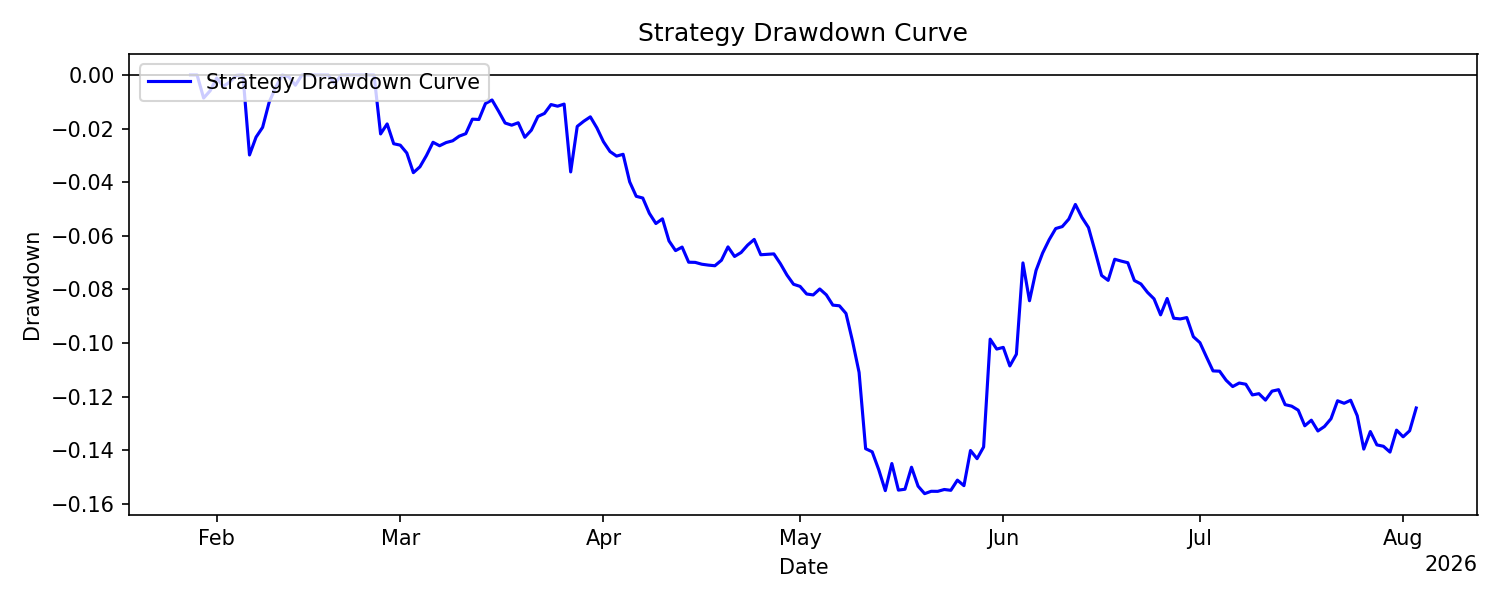
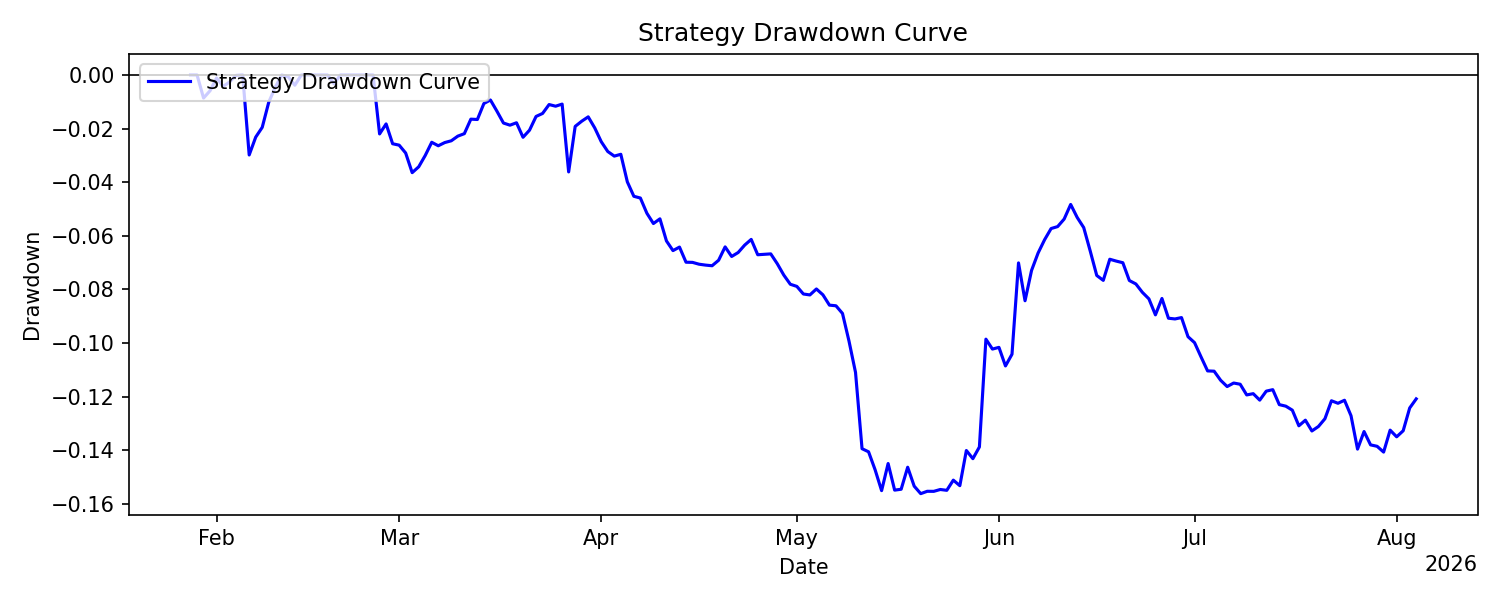
Update reports: 2026-08-04 00:05:12 UTC

diff --git a/README.md b/README.md
@@ -24,26 +24,26 @@ All results are live and reported net of transaction costs and slippage.
 <!-- METRICS_START -->
 | metric                       |        values |
 |:-----------------------------|--------------:|
-| Number of Observations       | 188           |
-| Mean Daily Return            |  -0.000364959 |
-| Daily Volatility             |   0.00843188  |
-| Mean Annualized Return       |  -0.13321     |
-| Annualized Volatility        |   0.161091    |
+| Number of Observations       | 189           |
+| Mean Daily Return            |  -0.000342496 |
+| Daily Volatility             |   0.00841509  |
+| Mean Annualized Return       |  -0.125011    |
+| Annualized Volatility        |   0.16077     |
 | Maximum Drawdown             |  -0.156146    |
-| Max Drawdown Duration (Days) | 159           |
-| Sharpe                       |  -0.826925    |
-| Sortino                      |  -1.14396     |
-| Calmar                       |  -0.853113    |
-| CAGR                         |  -0.135935    |
-| Skewness                     |   0.6694      |
-| Excess Kurtosis              |   8.59212     |
-| Win Rate                     |   0.468085    |
-| Profit Factor                |   0.872696    |
-| VaR 1%                       |  -0.0272595   |
+| Max Drawdown Duration (Days) | 160           |
+| Sharpe                       |  -0.777577    |
+| Sortino                      |  -1.07355     |
+| Calmar                       |  -0.800604    |
+| CAGR                         |  -0.128774    |
+| Skewness                     |   0.662391    |
+| Excess Kurtosis              |   8.61423     |
+| Win Rate                     |   0.470899    |
+| Profit Factor                |   0.879896    |
+| VaR 1%                       |  -0.0272297   |
 | CVaR 1%                      |  -0.030925    |
-| VaR 5%                       |  -0.0110711   |
+| VaR 5%                       |  -0.0110338   |
 | CVaR 5%                      |  -0.0201626   |
-| Correlation with BTC         |   0.00790808  |
+| Correlation with BTC         |   0.0113417   |
 <!-- METRICS_END -->
 
 ## Sharpe Statistics
@@ -55,14 +55,14 @@ All results are live and reported net of transaction costs and slippage.
 | metric                     |   values |
 |:---------------------------|---------:|
 | alpha                      |   0.05   |
-| t-statistic                |  -0.5935 |
-| p-value                    |   0.5536 |
-| Daily Sharpe Ratio         |  -0.0433 |
-| Annualized Sharpe Ratio    |  -0.8269 |
-| Sharpe Standard Error      |   1.4206 |
-| C.I. Lower Bound           |  -3.6113 |
-| C.I. Upper Bound           |   1.9574 |
-| Bootstrap C.I. Lower Bound |  -3.8234 |
-| Bootstrap C.I. Upper Bound |   2.6462 |
+| t-statistic                |  -0.5595 |
+| p-value                    |   0.5765 |
+| Daily Sharpe Ratio         |  -0.0407 |
+| Annualized Sharpe Ratio    |  -0.7776 |
+| Sharpe Standard Error      |   1.415  |
+| C.I. Lower Bound           |  -3.551  |
+| C.I. Upper Bound           |   1.9959 |
+| Bootstrap C.I. Lower Bound |  -3.7879 |
+| Bootstrap C.I. Upper Bound |   2.6337 |
 <!-- SHARPE_END -->
 
